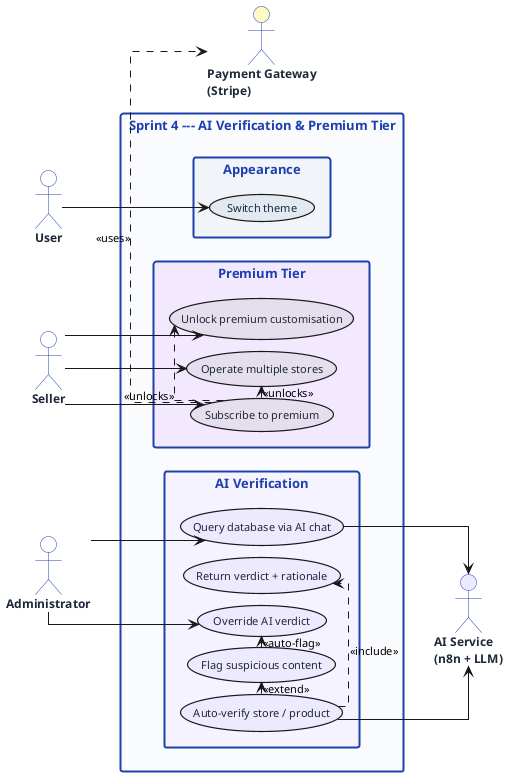
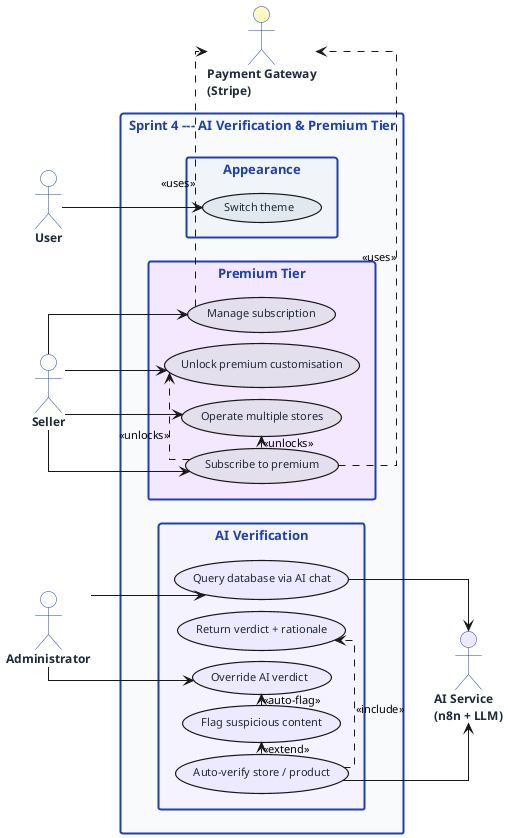
docs: sync report with recurring Stripe subscription, redesign & test counts
Resolve report-sync issues #13-#17 (the code had drifted from the report):

- #13 Premium Tier: rewrite chap_04 §Premium Tier + the Sprint-4 objective
  for the recurring monthly Stripe subscription (Checkout subscription mode
  + Customer Portal), sellers-only gating, admin manual-grant comp path,
  webhook-driven entitlement, the new User billing fields and the manageable
  flag; correct the obsolete "no new payment mechanism" claim.
- #14 add the "Subscribe to / manage premium subscription" use case, extend
  uc-sprint4 with "Manage subscription", and add a premium-subscription
  sequence diagram.
- #15 add stripeCustomerId/stripeSubscriptionId/cancelAtPeriodEnd to User in
  class-release2; reconstruct the missing class-diagram.puml source for the
  full domain model and re-render.
- #16 refresh the automated-test counts 479 -> 504 and recount the pyramid
  buckets (83 / 236 / 185) from the current suite.
- #17 add the Warm-Coral / dimmed-dark / Inter visual-identity note and an
  Upgrade-page screenshot placeholder.

Build: latexmk -pdf clean, no undefined references, de-branded.

Closes #13, #14, #15, #16, #17

Changed region(s): [[0.0, 0.0, 0.7972, 1.0], [0.8268, 0.6735, 1.0, 0.9184], [0.0886, 0.3673, 0.1181, 0.398]]

diff --git a/chap_04.tex b/chap_04.tex
@@ -360,9 +360,12 @@ Sprint~4 adds the intelligence and monetisation layers. Every new store
 and product is screened automatically by an AI verification pipeline
 before it becomes visible; suspicious content is flagged for the
 administrator, who remains the final authority. Administrators gain a
-natural-language database chat assistant for diagnostics, and sellers can
-subscribe to a premium tier --- reusing the Stripe machinery of Sprint~3
---- that unlocks the full customisation set and multiple stores. The AI
+natural-language database chat assistant for diagnostics, and sellers
+--- and only sellers --- can take out a \emph{recurring monthly} premium
+subscription through Stripe Checkout, managed afterwards through the Stripe
+Customer Portal, that unlocks the full customisation set and multiple
+stores; this is a new payment mechanism, distinct from the one-time charge
+of Sprint~3. The AI
 capabilities are delivered through three independent n8n workflows
 invoked by the backend over HTTP. Finally, the sprint rounds out the user
 experience with an appearance option: a light and a dimmed dark theme,
@@ -376,7 +379,8 @@ Figure~\ref{fig:uc-sprint4} details the sprint's use cases. Automatic
 verification \emph{includes} returning a verdict with a rationale and may
 \emph{extend} into flagging content for the administrator to override;
 subscribing to premium \emph{unlocks} the advanced customisation and
-multiple stores through the Stripe gateway.
+multiple stores through the Stripe gateway, and the subscription is
+afterwards managed through that same gateway.
 
 \begin{figure}[H]
   \centering
@@ -433,20 +437,20 @@ diagrams and the verification exchange as a sequence diagram.
 
 \begin{table}[H]
   \centering
-  \caption{Textual description of the \emph{Subscribe to premium} use case.}
+  \caption{Textual description of the \emph{Subscribe to / manage premium subscription} use case.}
   \label{tab:uc-premium}
   \renewcommand{\arraystretch}{1.25}
   \begin{tabularx}{\textwidth}{|>{\bfseries}p{3cm}|X|}
     \hline
     \rowcolor{tableHeader}
-    \multicolumn{2}{|l|}{\textcolor{white}{\textbf{Use case: Subscribe to premium}}} \\
+    \multicolumn{2}{|l|}{\textcolor{white}{\textbf{Use case: Subscribe to / manage premium subscription}}} \\
     \hline
     Actor & Seller; Payment Gateway (Stripe, secondary). \\ \hline
-    Objective & Unlock the premium tier: full storefront customisation and multiple stores. \\ \hline
+    Objective & Take out and manage a recurring monthly premium subscription that unlocks full storefront customisation and multiple stores. \\ \hline
     Pre-conditions & The user holds the seller role. \\ \hline
-    Post-conditions & After a successful Stripe payment, \texttt{isPremium} becomes \texttt{true} and \texttt{premiumExpiresAt} is set to a future date; premium customisation fields and multi-store operation are unlocked. \\ \hline
-    Nominal scenario & 1.~The seller opens the premium plan. \newline 2.~The seller pays through the same Stripe machinery used at checkout. \newline 3.~On payment success the account is marked premium with an expiry date. \newline 4.~The premium controls unlock. \\ \hline
-    Alternative scenarios & A1.~The subscription expires: premium fields lock for further editing, but the existing premium customisation values are preserved and remain visible to buyers (US27). \\ \hline
+    Post-conditions & Once Stripe confirms the subscription, \texttt{isPremium} becomes \texttt{true} and \texttt{premiumExpiresAt} is set to the current billing period end; the entitlement renews automatically, and premium customisation and multi-store operation are unlocked. \\ \hline
+    Nominal scenario & 1.~The seller opens the upgrade page and starts the subscription. \newline 2.~The backend opens a Stripe Checkout session in subscription mode and redirects the seller to the hosted page. \newline 3.~The seller pays on Stripe. \newline 4.~On a signature-verified \texttt{customer.subscription.created} webhook the account is marked premium until the current period end. \newline 5.~Each renewal fires \texttt{customer.subscription.updated} and advances the expiry. \newline 6.~The seller later manages the subscription --- cancel, update card, download invoices --- through the Stripe Customer Portal. \\ \hline
+    Alternative scenarios & A1.~Cancellation through the portal is \emph{cancel-at-period-end}: premium is kept until the paid period ends, then a \texttt{customer.subscription.deleted} webhook revokes it. \newline A2.~A non-seller is redirected to the become-a-seller flow. \newline A3.~An administrator grants premium manually --- a comp account with no Stripe subscription. \newline A4.~After expiry the premium customisation values are preserved and stay visible to buyers; only further editing of premium fields is locked (US27). \\ \hline
   \end{tabularx}
 \end{table}
 
@@ -544,17 +548,57 @@ and parses and sanitises the returned customisation object.
 
 \subsection{Premium Tier}
 
-The premium tier is monetised through the same Stripe machinery designed
-in Sprint~3, so no new payment mechanism is introduced. A successful
-payment marks the account premium by setting \texttt{isPremium} and a
-future \texttt{premiumExpiresAt}; premium status is evaluated by
-comparing that expiry against the current time. Premium unlocks the full
-storefront customisation set --- free-form colours, all fonts and radii,
-banner controls and the rest --- and the ability to operate several
-stores. The design deliberately \emph{preserves} a seller's premium
-customisation values after expiry: the stored design remains visible to
-buyers and only the editing of premium fields is locked, so a lapsed
-subscription never degrades a storefront that is already live.
+Unlike the one-time checkout of Sprint~3, the premium tier is a
+\emph{recurring monthly subscription}, and it therefore introduces two
+Stripe mechanisms beyond that sprint's single PaymentIntent:
+\textbf{Stripe Checkout in subscription mode} for sign-up and the
+\textbf{Stripe Customer Portal} for self-service management. A seller
+starts the flow from the upgrade page; the backend creates --- or reuses
+--- a Stripe \emph{customer} for the account, stamps its identifier on
+\texttt{stripeCustomerId}, and opens a hosted Checkout session in
+subscription mode for the configured monthly price. Everything afterwards
+--- cancelling, updating the card, downloading invoices --- is delegated
+to the hosted Customer Portal rather than rebuilt in-house.
+
+The tier is \textbf{sellers-only}: the \texttt{premium/checkout} endpoint
+is role-gated to the seller role, a non-seller is routed instead to the
+become-a-seller flow, and administrators keep a \textbf{manual grant} comp
+path that marks an account premium without any Stripe subscription.
+
+Entitlement is \textbf{webhook-driven}. The subscription lifecycle events
+--- \texttt{customer.subscription.created}, \texttt{...updated} and
+\texttt{...deleted} --- arrive through the \emph{same} signature-verified
+\texttt{/payments/webhook} introduced in Sprint~3. A created or updated
+subscription sets \texttt{isPremium} and stamps \texttt{premiumExpiresAt}
+with the current period end, so each successful renewal simply advances
+the expiry; a scheduled cancellation is recorded in
+\texttt{cancelAtPeriodEnd} without revoking access, so premium is kept
+until the paid period actually ends; a deleted subscription revokes
+premium and detaches the subscription id. To carry this, the
+\texttt{User} entity gains \texttt{stripeCustomerId},
+\texttt{stripeSubscriptionId} and \texttt{cancelAtPeriodEnd} alongside the
+existing \texttt{isPremium} and \texttt{premiumExpiresAt}
+(Figure~\ref{fig:class-release2}); the premium-status read returned to the
+client now also exposes \texttt{cancelAtPeriodEnd} and a
+\texttt{manageable} flag that tells a real subscriber --- who can open the
+portal --- apart from an administrator comp grant.
+
+Premium unlocks the full storefront customisation set --- free-form
+colours, all fonts and radii, banner controls and the rest --- and the
+ability to operate several stores. As before, the design deliberately
+\emph{preserves} a seller's premium customisation values after expiry: the
+stored design remains visible to buyers and only the editing of premium
+fields is locked, so a lapsed subscription never degrades a storefront
+that is already live (US27). Figure~\ref{fig:seq-premium-subscription}
+traces the subscription exchange from checkout through the webhook-driven
+entitlement update.
+
+\begin{figure}[H]
+  \centering
+  \includegraphics[width=\columnwidth,keepaspectratio]{img/seq-premium-subscription.png}
+  \caption{Sequence diagram --- premium subscription checkout and webhook-driven entitlement.}
+  \label{fig:seq-premium-subscription}
+\end{figure}
 
 \subsection{Realisation}
 
@@ -577,15 +621,30 @@ placeholder for the corresponding screenshot of the running application.
 
 \begin{figure}[H]
   \centering
+  \imagePlaceholder[6cm]{Upgrade page --- the premium plan with the subscribe call to action, and, for an active subscriber, the manage-subscription controls (cancel at period end, update card, invoices)}
+  \caption{Premium upgrade and subscription-management page.}
+  \label{fig:real-upgrade}
+\end{figure}
+
+\begin{figure}[H]
+  \centering
   \imagePlaceholder[6cm]{Appearance --- the same page in the light theme and in the dimmed dark theme, with the theme switch open in the navigation bar}
   \caption{Light and dimmed-dark application themes.}
   \label{fig:real-theme}
 \end{figure}
 
+Across both themes the application carries a deliberate visual identity,
+applied entirely through CSS design tokens: a \textbf{warm-coral} brand
+accent in the light theme, a dimmed dark theme for low-light use, and
+\textbf{Inter} as the interface typeface. Centralising colour, typography
+and radius as tokens lets every component re-theme instantly and keeps the
+brand consistent across the application chrome, while seller storefronts
+intentionally retain their own chosen palette.
+
 \section{Tests \& Validation}
 \label{sec:tests}
 
-Quality is enforced by an automated suite of \textbf{479 tests} that runs
+Quality is enforced by an automated suite of \textbf{504 tests} that runs
 on every push and gates every deployment.
 
 \subsection{Testing Strategy and Tooling}
@@ -617,20 +676,20 @@ layers.
   \begin{minipage}{0.85\textwidth}
   \centering
   \texttt{\begin{tabular}{c}
-    \textbf{Integration (90 tests)} \\
+    \textbf{Integration (83 tests)} \\
     \footnotesize Nest app + ValidationPipe + supertest + global guard \\
     \footnotesize controllers across the modules; deny-by-default guard wiring \\[4pt]
     \hline\\[-6pt]
-    \textbf{Service unit tests (221 tests)} \\
+    \textbf{Service unit tests (236 tests)} \\
     \footnotesize Real service code, mocked Prisma \\
-    \footnotesize Product, Store, Order, Payment, User, Settings, Notification, \ldots \\[4pt]
+    \footnotesize Product, Store, Order, Payment, Subscription, User, Notification, \ldots \\[4pt]
     \hline\\[-6pt]
-    \textbf{Pure-logic + frontend (168 tests)} \\
+    \textbf{Pure-logic + frontend (185 tests)} \\
     \footnotesize No I/O, no framework wiring \\
     \footnotesize \texttt{validate-env}, \texttt{tndToStripeUsdMinor}, guards; stores, hooks, components \\
   \end{tabular}}
   \end{minipage}
-  \caption{Test pyramid --- 479 tests across backend (Jest, 346) and frontend (Vitest, 133).}
+  \caption{Test pyramid --- 504 tests across backend (Jest, 362) and frontend (Vitest, 142).}
   \label{fig:test-pyramid}
 \end{figure}
 
@@ -816,7 +875,7 @@ verification pipeline with administrative override, the database chat
 assistant, the premium tier built on the same payment machinery, a light
 and dimmed-dark theming option, and the
 testing and DevOps that bring the platform to production: a layered suite
-of 479 tests, containerised services behind a TLS-terminating proxy,
+of 504 tests, containerised services behind a TLS-terminating proxy,
 infrastructure described with Terraform, and a GitHub Actions pipeline
 that tests, builds and deploys on every push to \texttt{main}. The
 marketplace planned in the first two chapters is now fully realised,

diff --git a/chap_02.tex b/chap_02.tex
@@ -194,11 +194,13 @@ creation is automatically \emph{verified by AI}.
 
 Figure~\ref{fig:class} presents the static domain model. A single
 \texttt{User} entity carries the customer, seller and administrator
-roles; a Seller owns one or more \texttt{Store} entities, each holding
-\texttt{Product} entities that are organised by \texttt{Category} and
-\texttt{Tag}; orders are modelled by an \texttt{Order} aggregate and its
-\texttt{OrderItem} lines, allowing a single checkout to span several
-stores.
+roles, together with the premium-subscription and Stripe billing
+attributes (\texttt{isPremium}, \texttt{premiumExpiresAt} and the Stripe
+customer and subscription identifiers); a Seller owns one or more
+\texttt{Store} entities, each holding \texttt{Product} entities that are
+organised by \texttt{Category} and \texttt{Tag}; orders are modelled by an
+\texttt{Order} aggregate and its \texttt{OrderItem} lines, allowing a
+single checkout to span several stores.
 
 \begin{figure}[H]
   \centering

diff --git a/conclusion.tex b/conclusion.tex
@@ -31,7 +31,7 @@ server-authoritative Stripe payment flow confirmed by a
 signature-verified webhook; the administration and moderation tooling; an
 automated AI verification pipeline with administrative override and a
 natural-language database-chat assistant; a premium subscription tier;
-and the quality and delivery layers --- a layered suite of 479 automated
+and the quality and delivery layers --- a layered suite of 504 automated
 tests, containerised services behind a TLS-terminating reverse proxy,
 infrastructure described as code with Terraform, and a continuous
 deployment pipeline that tests, builds and ships on every push to the